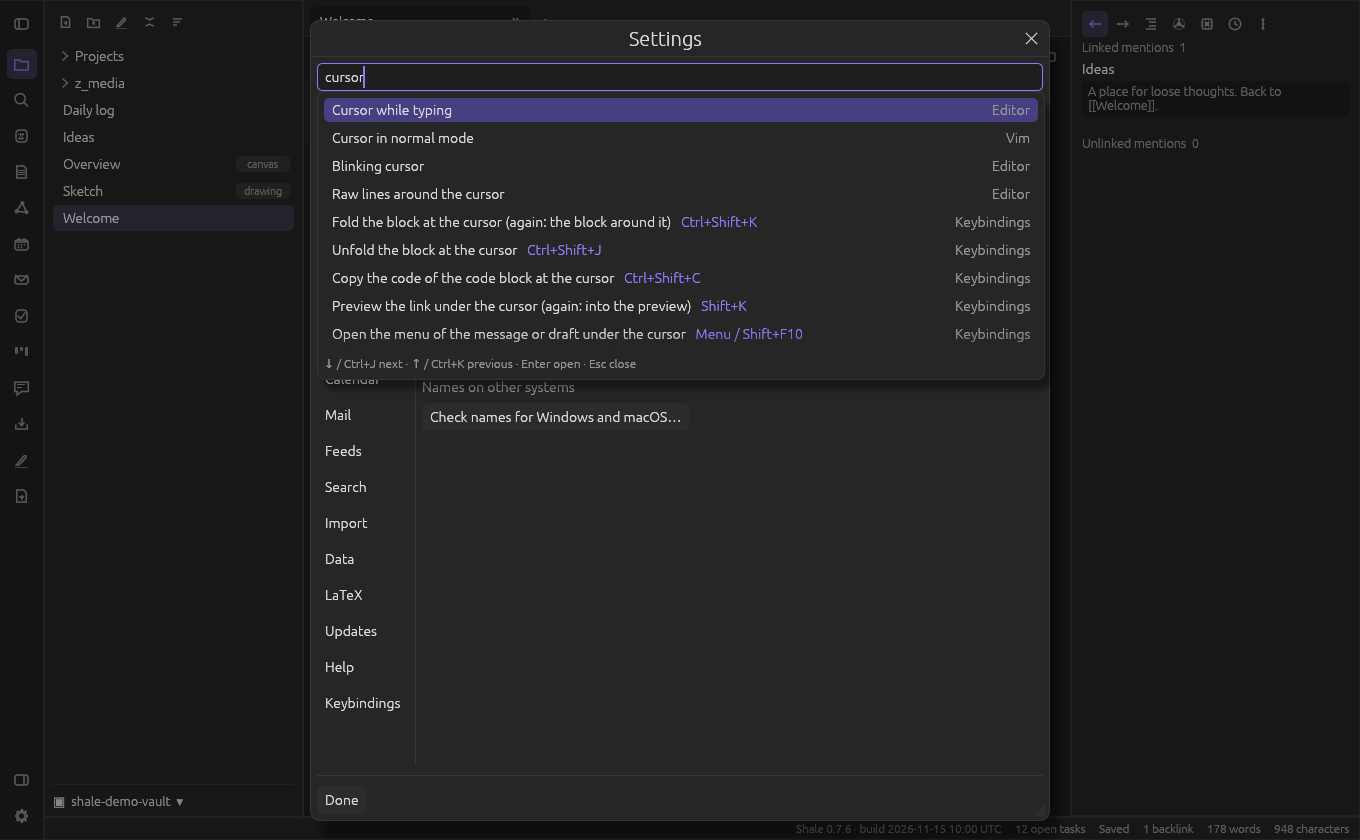
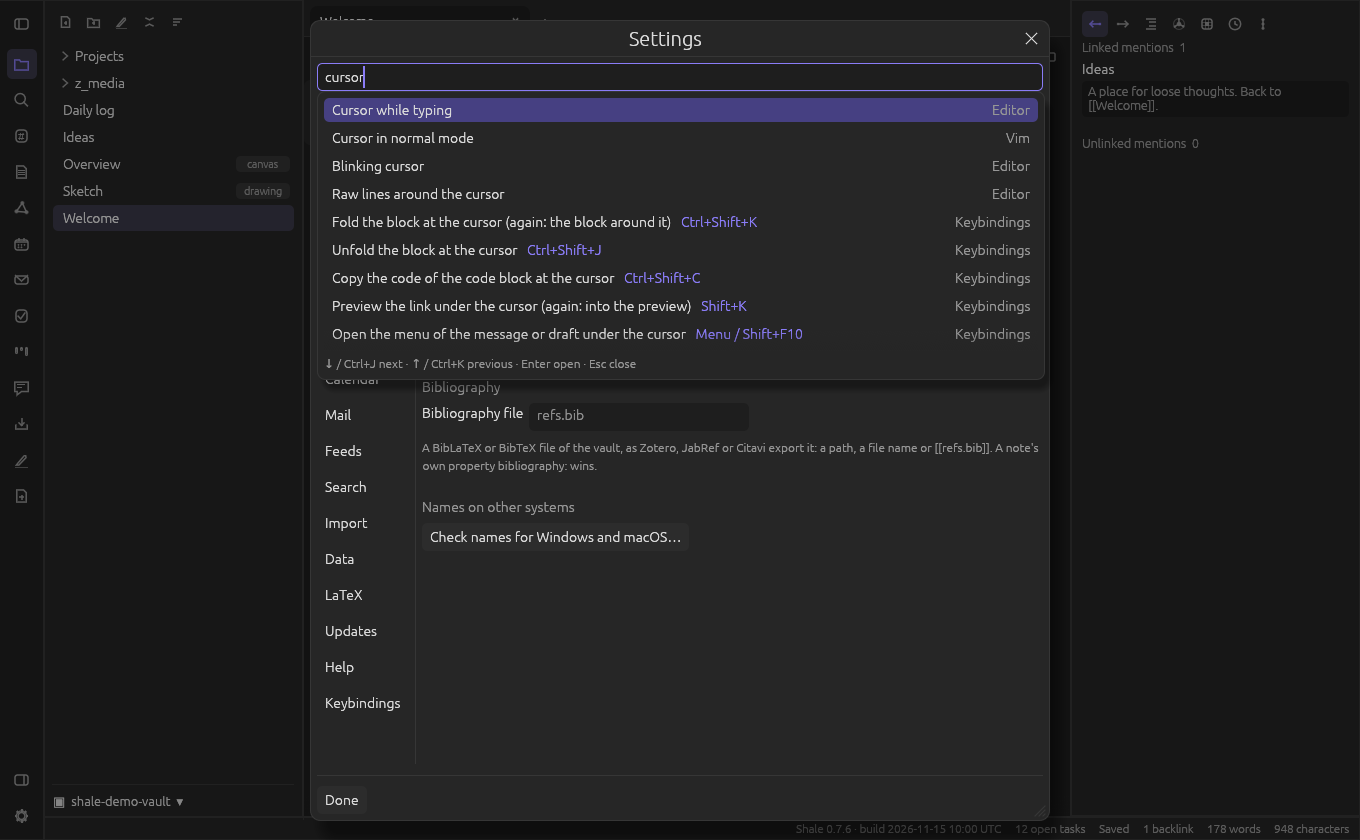
Name the bibliography in the subtitle of the Vault tab
Refs #645

Changed region(s): [[0.3088, 0.4333, 0.7412, 0.5571], [0.3088, 0.5881, 0.4941, 0.65]]

diff --git a/src/settings/mod.rs b/src/settings/mod.rs
@@ -107,7 +107,7 @@ impl SettingsTab {
     /// One line above the page: what it is for.
     fn about(self) -> &'static str {
         match self {
-            SettingsTab::Vault => "The folder this vault lives in, and where its contacts are",
+            SettingsTab::Vault => "The folder this vault lives in, where its contacts are, and its bibliography",
             SettingsTab::Editor => "How notes are edited: the cursor, links, tables and the toolbar",
             SettingsTab::Vim => "Vim-style editing: the switch, the cursor of normal mode and the link preview",
             SettingsTab::Appearance => "How notes, drawings and media look",
